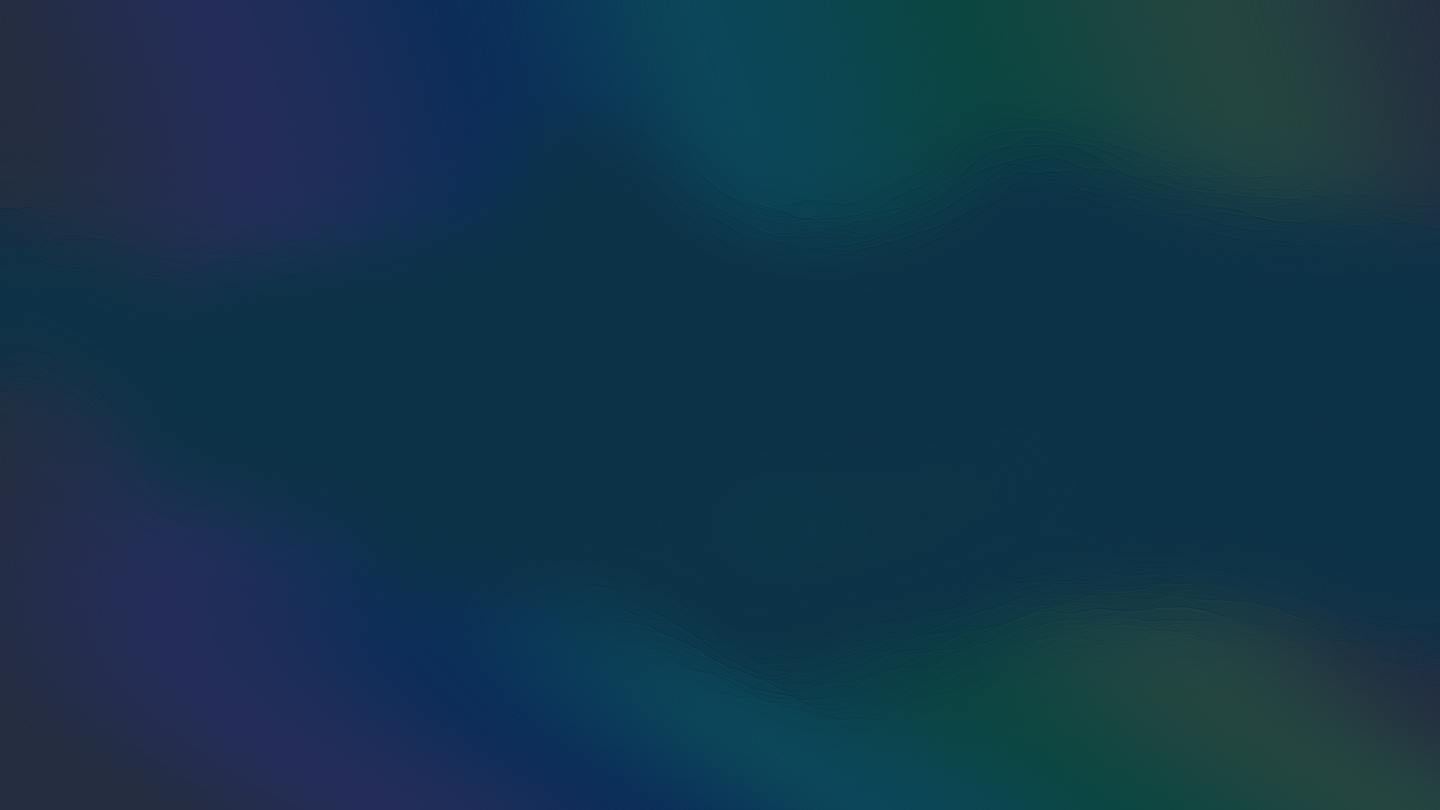
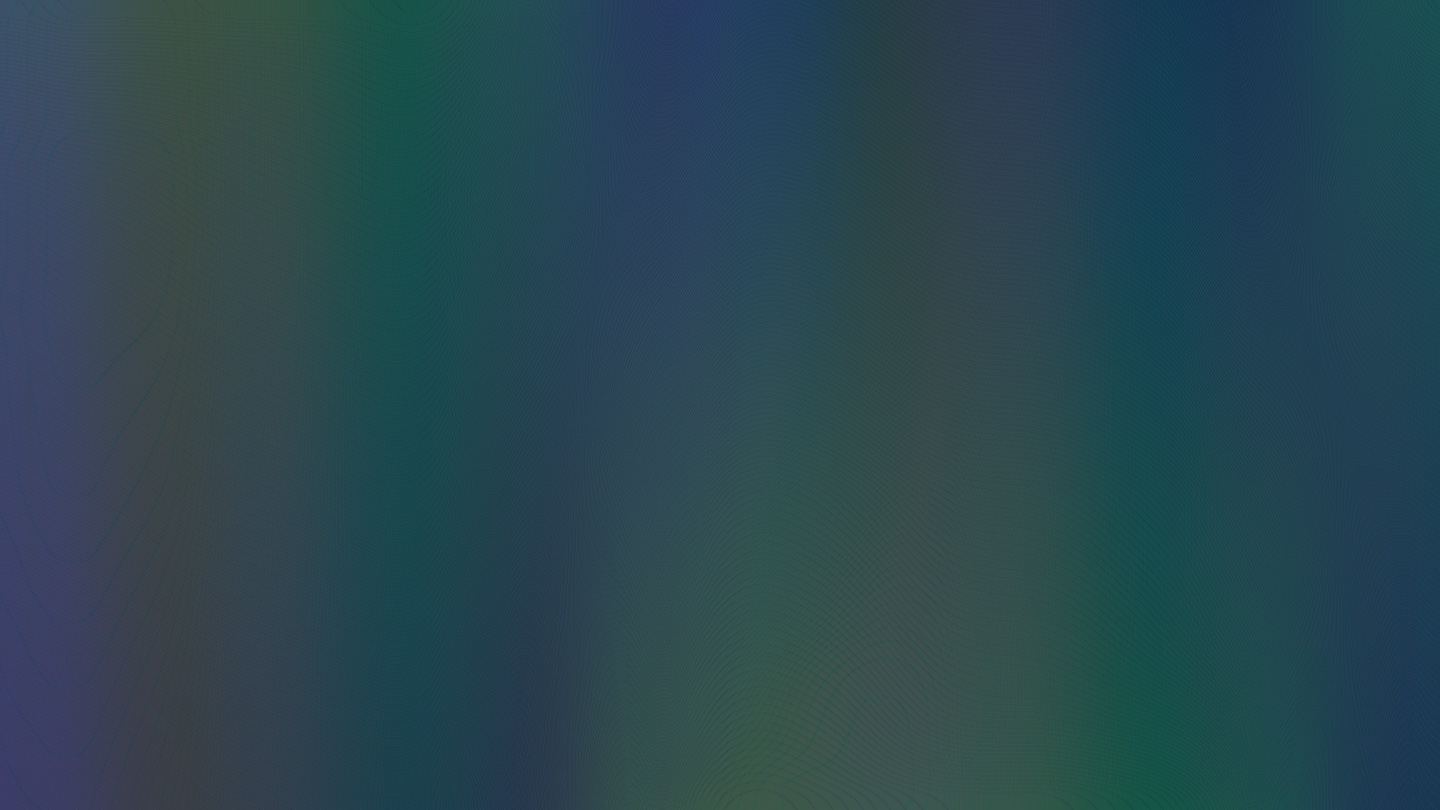
new background

diff --git a/posts/2012-10-07-rosa-rosa-rosam.html b/posts/2012-10-07-rosa-rosa-rosam.html
@@ -5,12 +5,14 @@
 <meta http-equiv="X-UA-Compatible" content="IE=edge">
 <meta name="description" content>
 <meta name="viewport" content="width=device-width, initial-scale=1">
+<meta name="author" content="Tomas Zemanovic">
+<link rel="shortcut icon" href="favicon.ico">
 
 <title>Tomas Zemanovic - Rosa Rosa Rosam</title>
 
 <link rel="stylesheet" href="http://netdna.bootstrapcdn.com/bootstrap/3.1.1/css/bootstrap.min.css">
 <link rel="stylesheet" href="http://netdna.bootstrapcdn.com/bootstrap/3.1.1/css/bootstrap-theme.min.css">
-<link rel="stylesheet" href="../master.css">
+<link rel="stylesheet" href="../style.css">
 <!-- HTML5 Shim and Respond.js IE8 support of HTML5 elements and media queries -->
 <!-- WARNING: Respond.js doesn't work if you view the page via file:// -->
 <!--[if lt IE 9]>
@@ -19,7 +21,7 @@
 <![endif]-->
 
 </head>
-<body>
+<body role="document">
 <div class="navbar navbar-default navbar-fixed-top" role="navigation">
     <div class="container">
 		<div class="navbar-header">
@@ -32,7 +34,7 @@
             <a class="navbar-brand" href="#">Tomáš Zemanovič</a>
         </div>
         <div class="navbar-collapse collapse">
-            <ul class="nav navbar-nav navbar-right">
+            <ul class="nav navbar-nav">
                 <li class="active"><a href="../index.html">home</a></li>
                 <li><a href="../blog.html">blog</a></li>
                 <li><a href="../projects.html">projects</a></li>

diff --git a/posts/2012-11-28-carpe-diem.html b/posts/2012-11-28-carpe-diem.html
@@ -5,12 +5,14 @@
 <meta http-equiv="X-UA-Compatible" content="IE=edge">
 <meta name="description" content>
 <meta name="viewport" content="width=device-width, initial-scale=1">
+<meta name="author" content="Tomas Zemanovic">
+<link rel="shortcut icon" href="favicon.ico">
 
 <title>Tomas Zemanovic - Carpe Diem</title>
 
 <link rel="stylesheet" href="http://netdna.bootstrapcdn.com/bootstrap/3.1.1/css/bootstrap.min.css">
 <link rel="stylesheet" href="http://netdna.bootstrapcdn.com/bootstrap/3.1.1/css/bootstrap-theme.min.css">
-<link rel="stylesheet" href="../master.css">
+<link rel="stylesheet" href="../style.css">
 <!-- HTML5 Shim and Respond.js IE8 support of HTML5 elements and media queries -->
 <!-- WARNING: Respond.js doesn't work if you view the page via file:// -->
 <!--[if lt IE 9]>
@@ -19,7 +21,7 @@
 <![endif]-->
 
 </head>
-<body>
+<body role="document">
 <div class="navbar navbar-default navbar-fixed-top" role="navigation">
     <div class="container">
 		<div class="navbar-header">
@@ -32,7 +34,7 @@
             <a class="navbar-brand" href="#">Tomáš Zemanovič</a>
         </div>
         <div class="navbar-collapse collapse">
-            <ul class="nav navbar-nav navbar-right">
+            <ul class="nav navbar-nav">
                 <li class="active"><a href="../index.html">home</a></li>
                 <li><a href="../blog.html">blog</a></li>
                 <li><a href="../projects.html">projects</a></li>

diff --git a/posts/2012-12-07-tu-quoque.html b/posts/2012-12-07-tu-quoque.html
@@ -5,12 +5,14 @@
 <meta http-equiv="X-UA-Compatible" content="IE=edge">
 <meta name="description" content>
 <meta name="viewport" content="width=device-width, initial-scale=1">
+<meta name="author" content="Tomas Zemanovic">
+<link rel="shortcut icon" href="favicon.ico">
 
 <title>Tomas Zemanovic - Tu Quoque</title>
 
 <link rel="stylesheet" href="http://netdna.bootstrapcdn.com/bootstrap/3.1.1/css/bootstrap.min.css">
 <link rel="stylesheet" href="http://netdna.bootstrapcdn.com/bootstrap/3.1.1/css/bootstrap-theme.min.css">
-<link rel="stylesheet" href="../master.css">
+<link rel="stylesheet" href="../style.css">
 <!-- HTML5 Shim and Respond.js IE8 support of HTML5 elements and media queries -->
 <!-- WARNING: Respond.js doesn't work if you view the page via file:// -->
 <!--[if lt IE 9]>
@@ -19,7 +21,7 @@
 <![endif]-->
 
 </head>
-<body>
+<body role="document">
 <div class="navbar navbar-default navbar-fixed-top" role="navigation">
     <div class="container">
 		<div class="navbar-header">
@@ -32,7 +34,7 @@
             <a class="navbar-brand" href="#">Tomáš Zemanovič</a>
         </div>
         <div class="navbar-collapse collapse">
-            <ul class="nav navbar-nav navbar-right">
+            <ul class="nav navbar-nav">
                 <li class="active"><a href="../index.html">home</a></li>
                 <li><a href="../blog.html">blog</a></li>
                 <li><a href="../projects.html">projects</a></li>

diff --git a/posts/2012-08-12-spqr.html b/posts/2012-08-12-spqr.html
@@ -5,12 +5,14 @@
 <meta http-equiv="X-UA-Compatible" content="IE=edge">
 <meta name="description" content>
 <meta name="viewport" content="width=device-width, initial-scale=1">
+<meta name="author" content="Tomas Zemanovic">
+<link rel="shortcut icon" href="favicon.ico">
 
 <title>Tomas Zemanovic - S.P.Q.R.</title>
 
 <link rel="stylesheet" href="http://netdna.bootstrapcdn.com/bootstrap/3.1.1/css/bootstrap.min.css">
 <link rel="stylesheet" href="http://netdna.bootstrapcdn.com/bootstrap/3.1.1/css/bootstrap-theme.min.css">
-<link rel="stylesheet" href="../master.css">
+<link rel="stylesheet" href="../style.css">
 <!-- HTML5 Shim and Respond.js IE8 support of HTML5 elements and media queries -->
 <!-- WARNING: Respond.js doesn't work if you view the page via file:// -->
 <!--[if lt IE 9]>
@@ -19,7 +21,7 @@
 <![endif]-->
 
 </head>
-<body>
+<body role="document">
 <div class="navbar navbar-default navbar-fixed-top" role="navigation">
     <div class="container">
 		<div class="navbar-header">
@@ -32,7 +34,7 @@
             <a class="navbar-brand" href="#">Tomáš Zemanovič</a>
         </div>
         <div class="navbar-collapse collapse">
-            <ul class="nav navbar-nav navbar-right">
+            <ul class="nav navbar-nav">
                 <li class="active"><a href="../index.html">home</a></li>
                 <li><a href="../blog.html">blog</a></li>
                 <li><a href="../projects.html">projects</a></li>

diff --git a/archive.html b/archive.html
@@ -5,12 +5,14 @@
 <meta http-equiv="X-UA-Compatible" content="IE=edge">
 <meta name="description" content>
 <meta name="viewport" content="width=device-width, initial-scale=1">
+<meta name="author" content="Tomas Zemanovic">
+<link rel="shortcut icon" href="favicon.ico">
 
 <title>Tomas Zemanovic - Archives</title>
 
 <link rel="stylesheet" href="http://netdna.bootstrapcdn.com/bootstrap/3.1.1/css/bootstrap.min.css">
 <link rel="stylesheet" href="http://netdna.bootstrapcdn.com/bootstrap/3.1.1/css/bootstrap-theme.min.css">
-<link rel="stylesheet" href="./master.css">
+<link rel="stylesheet" href="./style.css">
 <!-- HTML5 Shim and Respond.js IE8 support of HTML5 elements and media queries -->
 <!-- WARNING: Respond.js doesn't work if you view the page via file:// -->
 <!--[if lt IE 9]>
@@ -19,7 +21,7 @@
 <![endif]-->
 
 </head>
-<body>
+<body role="document">
 <div class="navbar navbar-default navbar-fixed-top" role="navigation">
     <div class="container">
 		<div class="navbar-header">
@@ -32,7 +34,7 @@
             <a class="navbar-brand" href="#">Tomáš Zemanovič</a>
         </div>
         <div class="navbar-collapse collapse">
-            <ul class="nav navbar-nav navbar-right">
+            <ul class="nav navbar-nav">
                 <li class="active"><a href="./index.html">home</a></li>
                 <li><a href="./blog.html">blog</a></li>
                 <li><a href="./projects.html">projects</a></li>

diff --git a/contact.html b/contact.html
@@ -5,12 +5,14 @@
 <meta http-equiv="X-UA-Compatible" content="IE=edge">
 <meta name="description" content>
 <meta name="viewport" content="width=device-width, initial-scale=1">
+<meta name="author" content="Tomas Zemanovic">
+<link rel="shortcut icon" href="favicon.ico">
 
 <title>Tomas Zemanovic - Contact</title>
 
 <link rel="stylesheet" href="http://netdna.bootstrapcdn.com/bootstrap/3.1.1/css/bootstrap.min.css">
 <link rel="stylesheet" href="http://netdna.bootstrapcdn.com/bootstrap/3.1.1/css/bootstrap-theme.min.css">
-<link rel="stylesheet" href="./master.css">
+<link rel="stylesheet" href="./style.css">
 <!-- HTML5 Shim and Respond.js IE8 support of HTML5 elements and media queries -->
 <!-- WARNING: Respond.js doesn't work if you view the page via file:// -->
 <!--[if lt IE 9]>
@@ -19,7 +21,7 @@
 <![endif]-->
 
 </head>
-<body>
+<body role="document">
 <div class="navbar navbar-default navbar-fixed-top" role="navigation">
     <div class="container">
 		<div class="navbar-header">
@@ -32,7 +34,7 @@
             <a class="navbar-brand" href="#">Tomáš Zemanovič</a>
         </div>
         <div class="navbar-collapse collapse">
-            <ul class="nav navbar-nav navbar-right">
+            <ul class="nav navbar-nav">
                 <li class="active"><a href="./index.html">home</a></li>
                 <li><a href="./blog.html">blog</a></li>
                 <li><a href="./projects.html">projects</a></li>

diff --git a/about.html b/about.html
@@ -5,12 +5,14 @@
 <meta http-equiv="X-UA-Compatible" content="IE=edge">
 <meta name="description" content>
 <meta name="viewport" content="width=device-width, initial-scale=1">
+<meta name="author" content="Tomas Zemanovic">
+<link rel="shortcut icon" href="favicon.ico">
 
 <title>Tomas Zemanovic - About</title>
 
 <link rel="stylesheet" href="http://netdna.bootstrapcdn.com/bootstrap/3.1.1/css/bootstrap.min.css">
 <link rel="stylesheet" href="http://netdna.bootstrapcdn.com/bootstrap/3.1.1/css/bootstrap-theme.min.css">
-<link rel="stylesheet" href="./master.css">
+<link rel="stylesheet" href="./style.css">
 <!-- HTML5 Shim and Respond.js IE8 support of HTML5 elements and media queries -->
 <!-- WARNING: Respond.js doesn't work if you view the page via file:// -->
 <!--[if lt IE 9]>
@@ -19,7 +21,7 @@
 <![endif]-->
 
 </head>
-<body>
+<body role="document">
 <div class="navbar navbar-default navbar-fixed-top" role="navigation">
     <div class="container">
 		<div class="navbar-header">
@@ -32,7 +34,7 @@
             <a class="navbar-brand" href="#">Tomáš Zemanovič</a>
         </div>
         <div class="navbar-collapse collapse">
-            <ul class="nav navbar-nav navbar-right">
+            <ul class="nav navbar-nav">
                 <li class="active"><a href="./index.html">home</a></li>
                 <li><a href="./blog.html">blog</a></li>
                 <li><a href="./projects.html">projects</a></li>

diff --git a/blog.html b/blog.html
@@ -5,12 +5,14 @@
 <meta http-equiv="X-UA-Compatible" content="IE=edge">
 <meta name="description" content>
 <meta name="viewport" content="width=device-width, initial-scale=1">
+<meta name="author" content="Tomas Zemanovic">
+<link rel="shortcut icon" href="favicon.ico">
 
 <title>Tomas Zemanovic - blog</title>
 
 <link rel="stylesheet" href="http://netdna.bootstrapcdn.com/bootstrap/3.1.1/css/bootstrap.min.css">
 <link rel="stylesheet" href="http://netdna.bootstrapcdn.com/bootstrap/3.1.1/css/bootstrap-theme.min.css">
-<link rel="stylesheet" href="./master.css">
+<link rel="stylesheet" href="./style.css">
 <!-- HTML5 Shim and Respond.js IE8 support of HTML5 elements and media queries -->
 <!-- WARNING: Respond.js doesn't work if you view the page via file:// -->
 <!--[if lt IE 9]>
@@ -19,7 +21,7 @@
 <![endif]-->
 
 </head>
-<body>
+<body role="document">
 <div class="navbar navbar-default navbar-fixed-top" role="navigation">
     <div class="container">
 		<div class="navbar-header">
@@ -32,7 +34,7 @@
             <a class="navbar-brand" href="#">Tomáš Zemanovič</a>
         </div>
         <div class="navbar-collapse collapse">
-            <ul class="nav navbar-nav navbar-right">
+            <ul class="nav navbar-nav">
                 <li class="active"><a href="./index.html">home</a></li>
                 <li><a href="./blog.html">blog</a></li>
                 <li><a href="./projects.html">projects</a></li>

diff --git a/index.html b/index.html
@@ -5,12 +5,14 @@
 <meta http-equiv="X-UA-Compatible" content="IE=edge">
 <meta name="description" content>
 <meta name="viewport" content="width=device-width, initial-scale=1">
+<meta name="author" content="Tomas Zemanovic">
+<link rel="shortcut icon" href="favicon.ico">
 
 <title>Tomas Zemanovic - Home</title>
 
 <link rel="stylesheet" href="http://netdna.bootstrapcdn.com/bootstrap/3.1.1/css/bootstrap.min.css">
 <link rel="stylesheet" href="http://netdna.bootstrapcdn.com/bootstrap/3.1.1/css/bootstrap-theme.min.css">
-<link rel="stylesheet" href="./master.css">
+<link rel="stylesheet" href="./style.css">
 <!-- HTML5 Shim and Respond.js IE8 support of HTML5 elements and media queries -->
 <!-- WARNING: Respond.js doesn't work if you view the page via file:// -->
 <!--[if lt IE 9]>
@@ -19,7 +21,7 @@
 <![endif]-->
 
 </head>
-<body>
+<body role="document">
 <div class="navbar navbar-default navbar-fixed-top" role="navigation">
     <div class="container">
 		<div class="navbar-header">
@@ -32,7 +34,7 @@
             <a class="navbar-brand" href="#">Tomáš Zemanovič</a>
         </div>
         <div class="navbar-collapse collapse">
-            <ul class="nav navbar-nav navbar-right">
+            <ul class="nav navbar-nav">
                 <li class="active"><a href="./index.html">home</a></li>
                 <li><a href="./blog.html">blog</a></li>
                 <li><a href="./projects.html">projects</a></li>

diff --git a/style.css b/style.css
@@ -1,0 +1,1 @@
+html, body {     min-height: 100%;     background-color: #0c3246;     background: url(images/bg.jpg) no-repeat center center fixed;      -webkit-background-size: cover;     -moz-background-size: cover;     -o-background-size: cover;     background-size: cover; } #footer {     width: 100%;     height: 60px; } body > .container {     padding: 60px 15px 0; } #footer > .text-muted {     margin: 20px 0;     padding-right: 15px;     padding-left: 15px; } 
